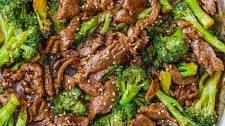
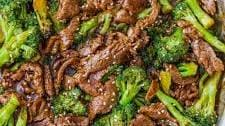
change images, add blog and about section

diff --git a/index.html b/index.html
@@ -13,14 +13,17 @@
 <body>
   <div class="navbar">
     <ul>
-      <li>About</li>
-      <li>Blog</li>
-      <li>FAQ</li>
+      <a href="#about"><li>About</li></a>
+      <a href="#blog"><li>Blog</li></a>
+      <a href=""><li>FAQ</li></a>
       <li> </li>
       <li> </li>
       <li>
-    <input id="input-ingredient" type="text"  placeholder="Enter ingredients (comma-separated)">
-    <button id="search-button">Search</button></li>
+        <div style="display: flex; justify-content: flex-end;">
+          <input id="input-ingredient" type="text" placeholder="Enter ingredients (comma-separated)">
+          <button id="search-button">Search</button>
+        </div>
+      </li>
     </ul>
 
   </div>
@@ -32,26 +35,83 @@
         </div>
         
         <div class="card-body">
-          <img  id="recipe-image"  src="" alt="Image">
+          <img  id="recipe-image"  src="img/jo-sonn-M-tzZD5z720-unsplash.jpg" alt="Image">
         </div>
       
       <div class="row">
         <div id="instructions" class="col-md-6">
           <div class="info-box">
             <h3>Instructions</h3>
-            <p id="instructions-list"></p>
+            <p id="instructions-list">Loading Instructions....</p>
           </div>
         </div>
         <div id="ingredients" class="col-md-6">
           <div class="info-box">
             <h3>Ingredients</h3>
-            <p id="ingredients-list"></p>
+            <p id="ingredients-list">Loading Ingredients...</p>
           </div>
         </div>
       </div>
     </div>
   </section>
+  <section id="about" class="p-5">
+    <div class="container">
+        <div class="row align-items-center justify-content-between">
+            
+                <h2 class="text-center " style="font-family: Tangerine; font-size: 3cm;">About Us</h2>
+              
+                <p id="aboutp" class="align-items-center"> Welcome to Yummy Hunt, your ultimate gastronomic companion in the digital age! Whether you're a seasoned chef or a kitchen newbie, Yummy Hunt is here to revolutionize the way you discover, create, and savor delightful dishes.
+      
+                  With Yummy Hunt, your next epicurean adventure is just a tap away. Say farewell to endless recipe searches and bland meals – our intuitive app brings together a treasure trove of mouthwatering recipes from around the globe, curated to suit every taste, dietary preference, and occasion.
+                  
+                  Embark on a journey of flavor exploration with our user-friendly interface, designed to make recipe browsing a breeze. From quick weekday dinners to extravagant weekend feasts, Yummy Hunt empowers you to unleash your inner chef and whip up epicurean delights that will tantalize your taste buds and impress even the toughest food critics.
+                  
+                  But Yummy Hunt is more than just a recipe repository hfit's your personal kitchen assistant, offering handy features like meal planning, grocery list generation, and cooking tips to streamline your culinary experience. Say goodbye to last-minute grocery runs and hello to stress-free cooking, thanks to Yummy Hunt's innovative tools and resources.
+                  
+                  So why wait? Join the Yummy Hunt community today and embark on a delicious journey filled with endless epicurean possibilities. Whether you're craving comfort food classics, exotic international flavors, or healthy plant-based options, Yummy Hunt has everything you need to satisfy your appetite and elevate your cooking game. Happy cooking!</p>
+             
+                </div>
+  </section>
+  <!-- Blog Section -->
+<section id="blog" class="p-5">
+  <div class="container">
+    <h2 class="text-center mb-4">Yummy Hunt Blog</h2>
+    <div class="row">
+      <div class="col-md-4 mb-4">
+        <div class="card">
+          <img src="img/blog1.jpg" class="card-img-top" alt="5 Seasonal Ingredients to Liven Up Your Meals">
+          <div class="card-body">
+            <h5 class="card-title">5 Seasonal Ingredients to Liven Up Your Meals</h5>
+            <p class="card-text">Explore the vibrant flavors of the season with these fresh and nutritious ingredients that will add a burst of flavor to your dishes.</p>
+            <a href="#" class="btn btn-primary">Read More</a>
+          </div>
+        </div>
+      </div>
+      <div class="col-md-4 mb-4">
+        <div class="card">
+          <img src="img/blog2.jpg" class="card-img-top" alt="Meal Prepping Made Easy: Tips and Tricks">
+          <div class="card-body">
+            <h5 class="card-title">Meal Prepping Made Easy: Tips and Tricks</h5>
+            <p class="card-text">Discover the art of meal prepping and learn how to plan, prepare, and store delicious meals in advance for a stress-free cooking experience.</p>
+            <a href="#" class="btn btn-primary">Read More</a>
+          </div>
+        </div>
+      </div>
+      <div class="col-md-4 mb-4">
+        <div class="card">
+          <img src="img/blog3.jpg" class="card-img-top" alt="Exploring Global Cuisine: A Taste of the World">
+          <div class="card-body">
+            <h5 class="card-title">Exploring Global Cuisine: A Taste of the World</h5>
+            <p class="card-text">Embark on a culinary adventure and discover the rich and diverse flavors from different cultures across the globe with our curated collection of international recipes.</p>
+            <a href="#" class="btn btn-primary">Read More</a>
+          </div>
+        </div>
+      </div>
+    </div>
+  </div>
+</section>
    
      
-  <script src="js/script.js"></script>  </body>
+  <script src="js/script.js"></script>
+  </body>
 </html>

diff --git a/css/style.css b/css/style.css
@@ -1,14 +1,14 @@
 body{
-    background-color: #A79277;
+    background-color: #86469C;
     font-family:'Trebuchet MS', 'Lucida Sans Unicode', 'Lucida Grande', 'Lucida Sans', Arial, sans-serif;
 }
 .hero {
-    background-color: #A79277;
+    background-color: #86469C;
     padding: 50px 0;
     
   }
   .navbar {
-    background-color: #A79277;
+    background-color: #86469C;
     display: flex;
     justify-content: space-between;
     padding: 30px 20px;    
@@ -25,8 +25,11 @@ body{
     display: inline-block;
     margin: 0 20px;
     position: relative;
+    color: black;
 }
-  
+.navbar ul li a{
+  text-decoration: none;
+}
 .card { 
     margin: 0 auto; 
     max-width: 90%; 
@@ -36,7 +39,7 @@ body{
   
   .card img {
     width: 100%;
-    height: 300px;
+    height: 350px;
     object-fit: cover;
   }
   
@@ -65,4 +68,7 @@ body{
   .col-md-6 {
     flex-basis: 50%;
     max-width: 50%;
+  }
+  #about{
+    background-color: #BC7FCD;
   }
